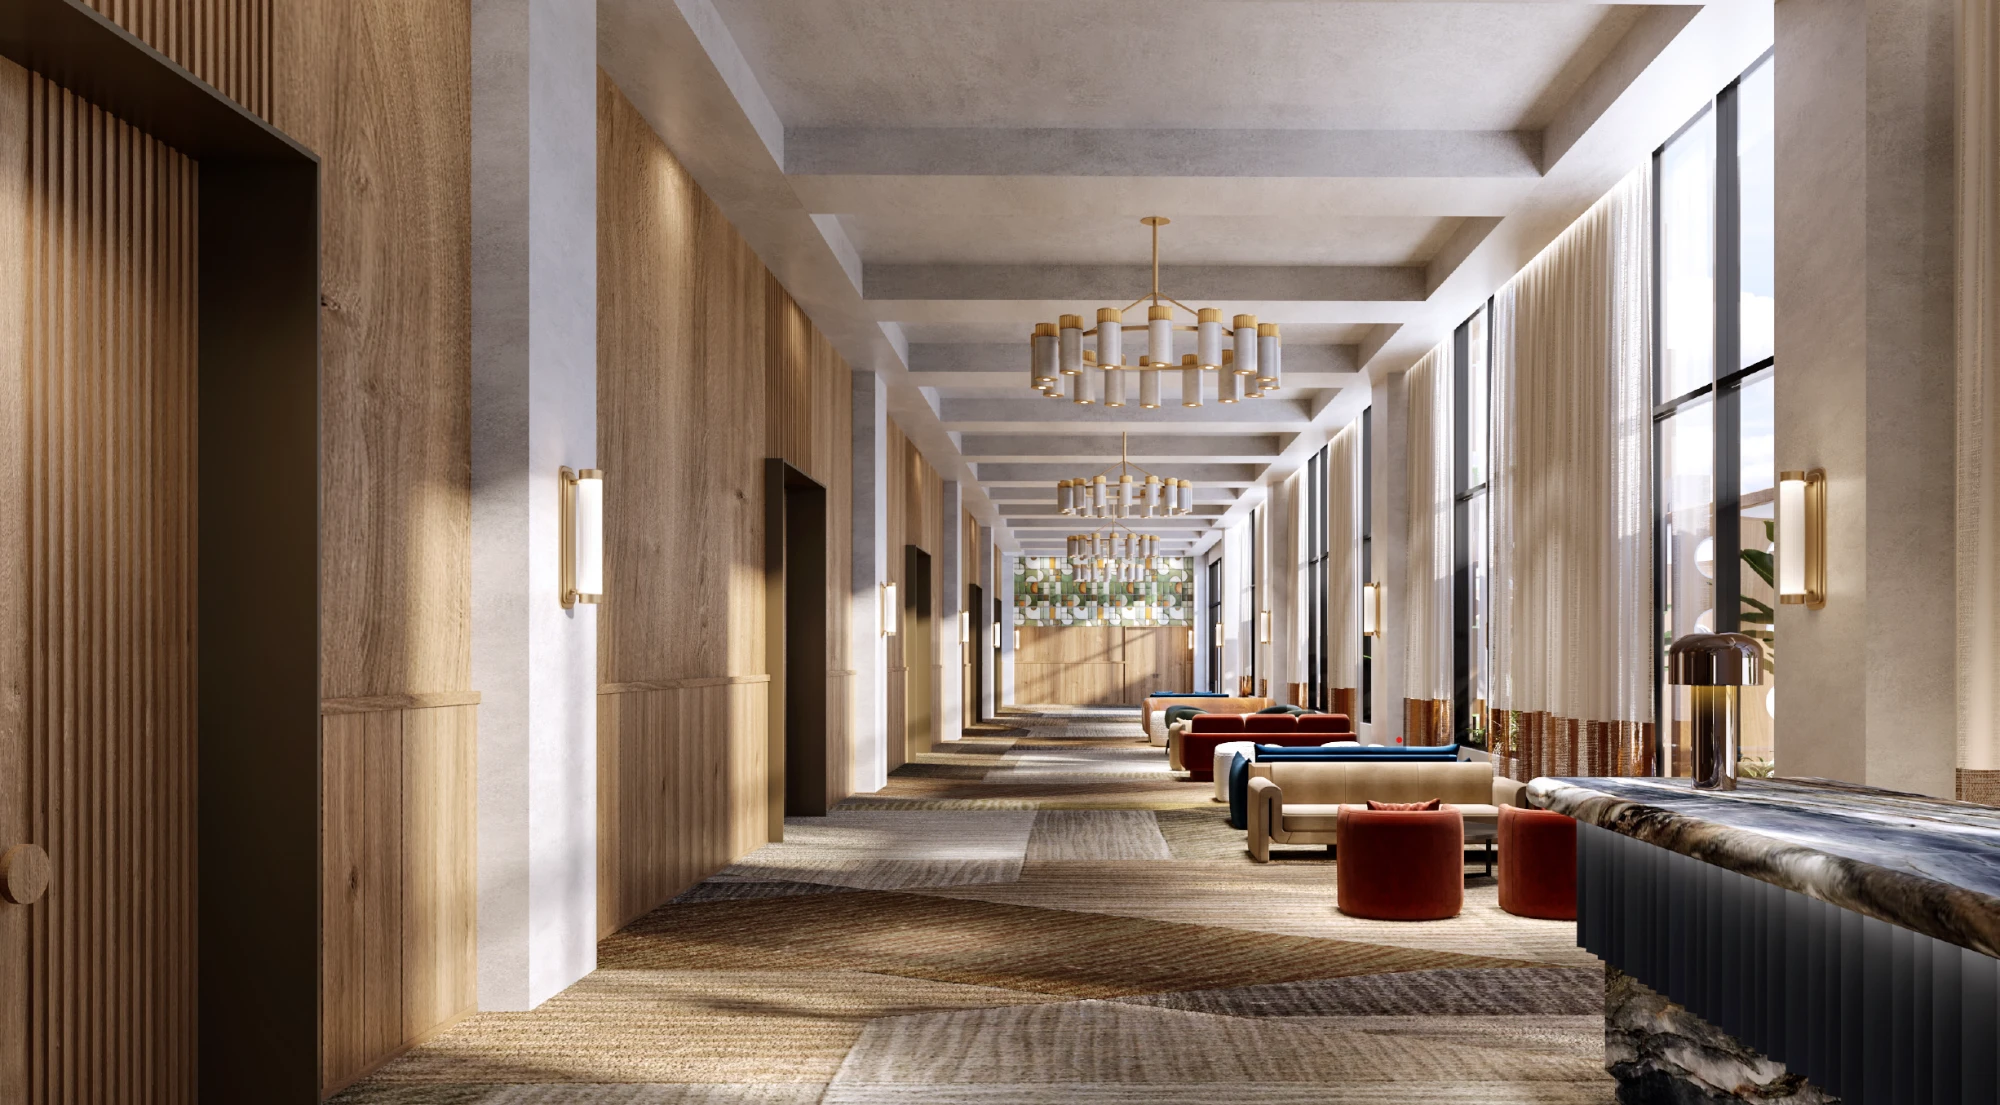
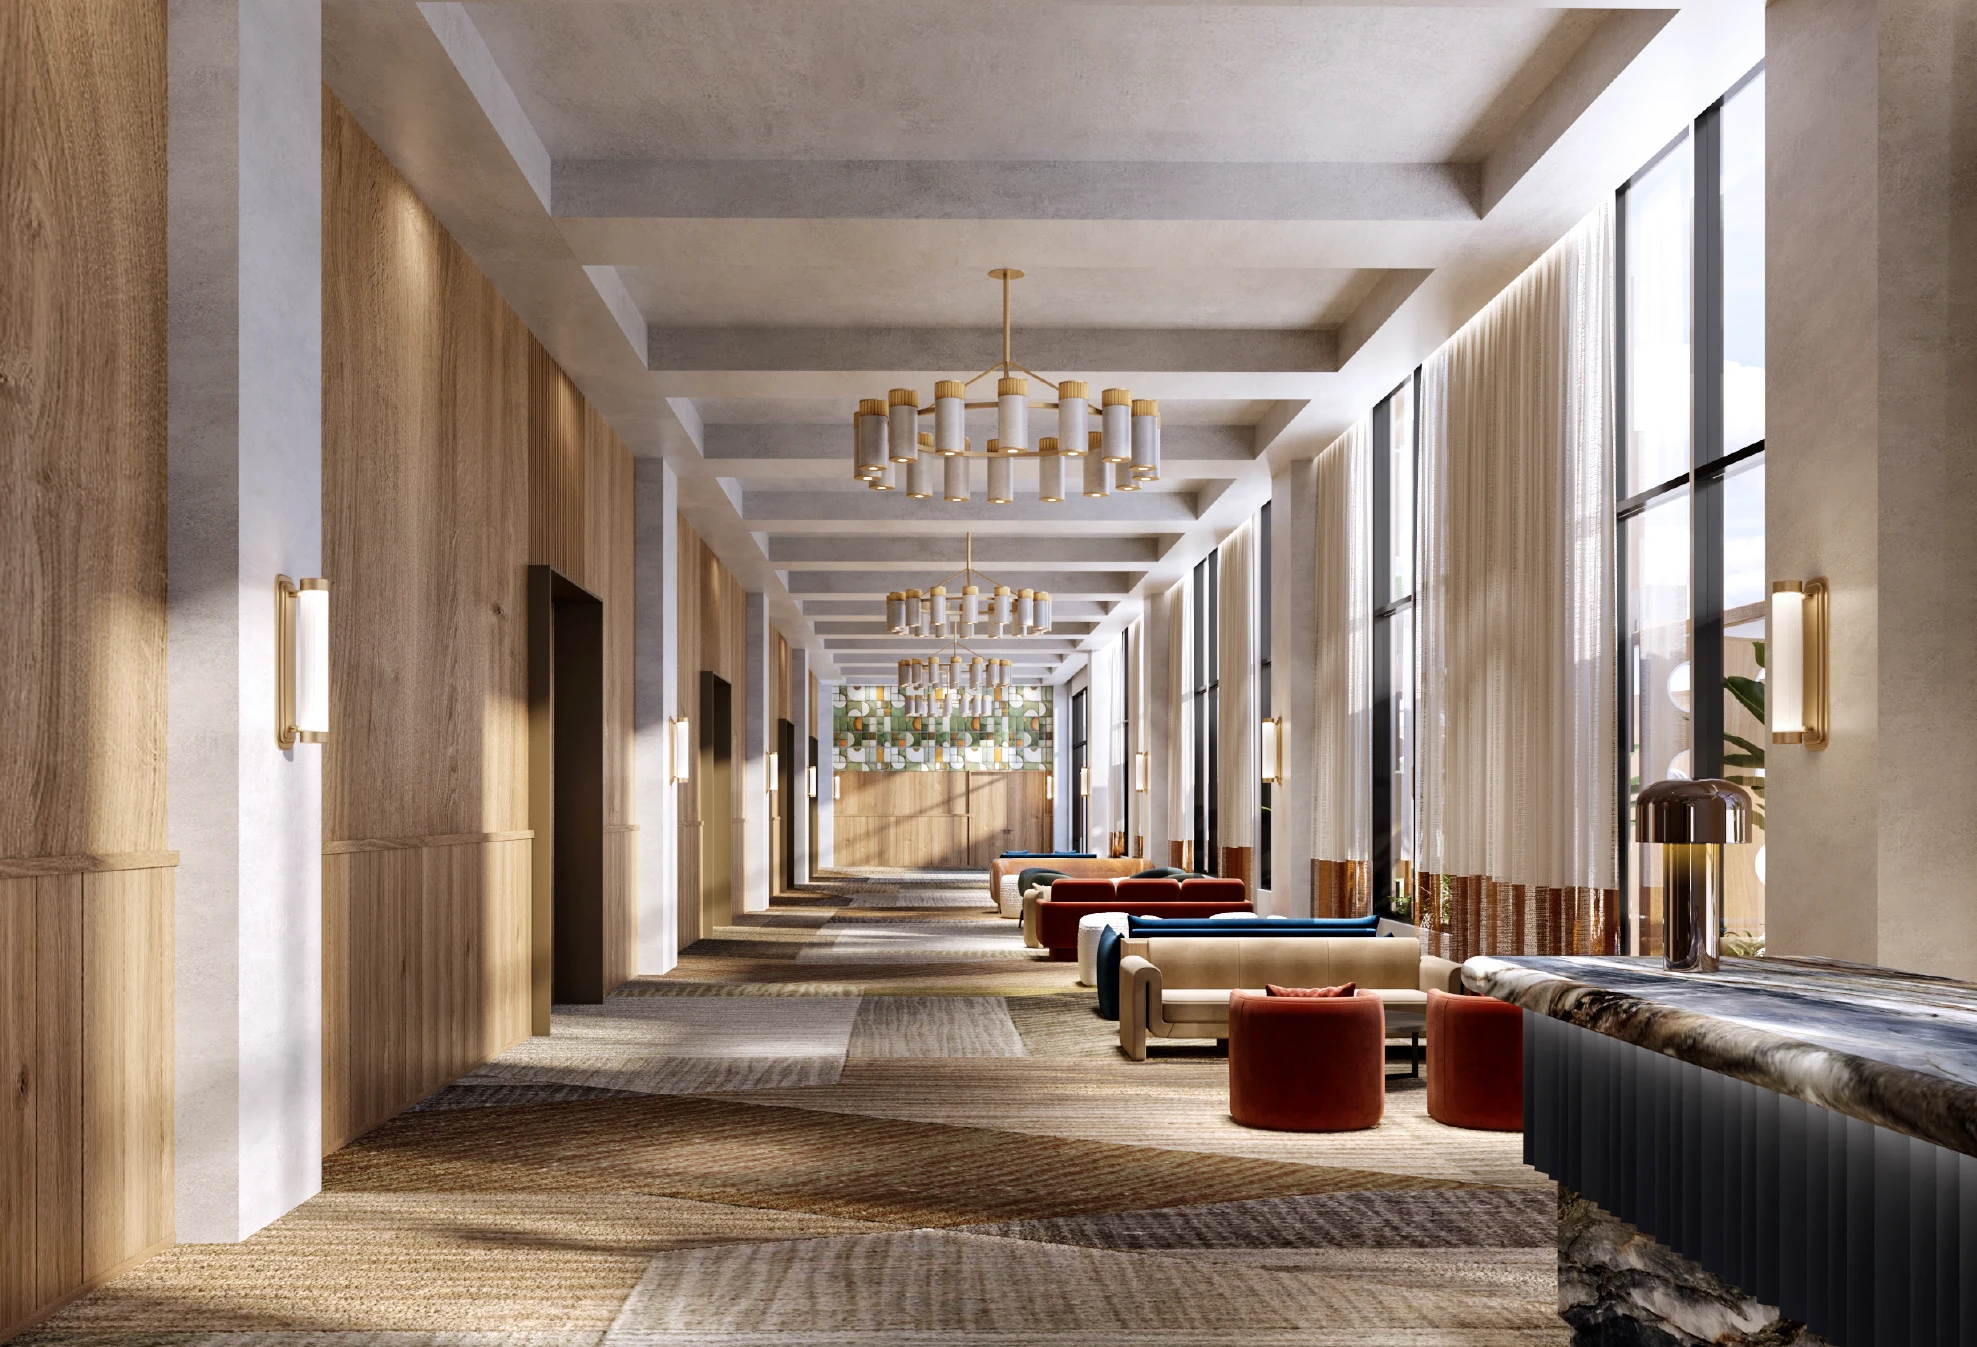
Swap hero image, add gradient scrim for nav legibility
New hallway shot's ceiling is bright right where the nav links sit, so
white text was nearly invisible there. Added a subtle top-down gradient
overlay behind the nav to keep it readable regardless of what's behind
it. Re-measured the back wall's position for objectPosition too.

Claude-Session: https://claude.ai/code/session_01RvSEGsuHzkpw84atJYjVjY

diff --git a/src/App.tsx b/src/App.tsx
@@ -13,6 +13,18 @@ function App() {
         }}
       >
         <Nav />
+        <div
+          style={{
+            position: 'absolute',
+            top: 0,
+            left: 0,
+            width: '100%',
+            height: '200px',
+            background: 'linear-gradient(to bottom, rgba(0,0,0,0.45), rgba(0,0,0,0))',
+            pointerEvents: 'none',
+            zIndex: 5,
+          }}
+        />
         <motion.img
           src="/images/lobby.webp"
           alt="Interior lobby design"
@@ -23,7 +35,7 @@ function App() {
             width: '100%',
             height: '100%',
             objectFit: 'cover',
-            objectPosition: '55% 50%',
+            objectPosition: '48% 50%',
             display: 'block',
           }}
         />
